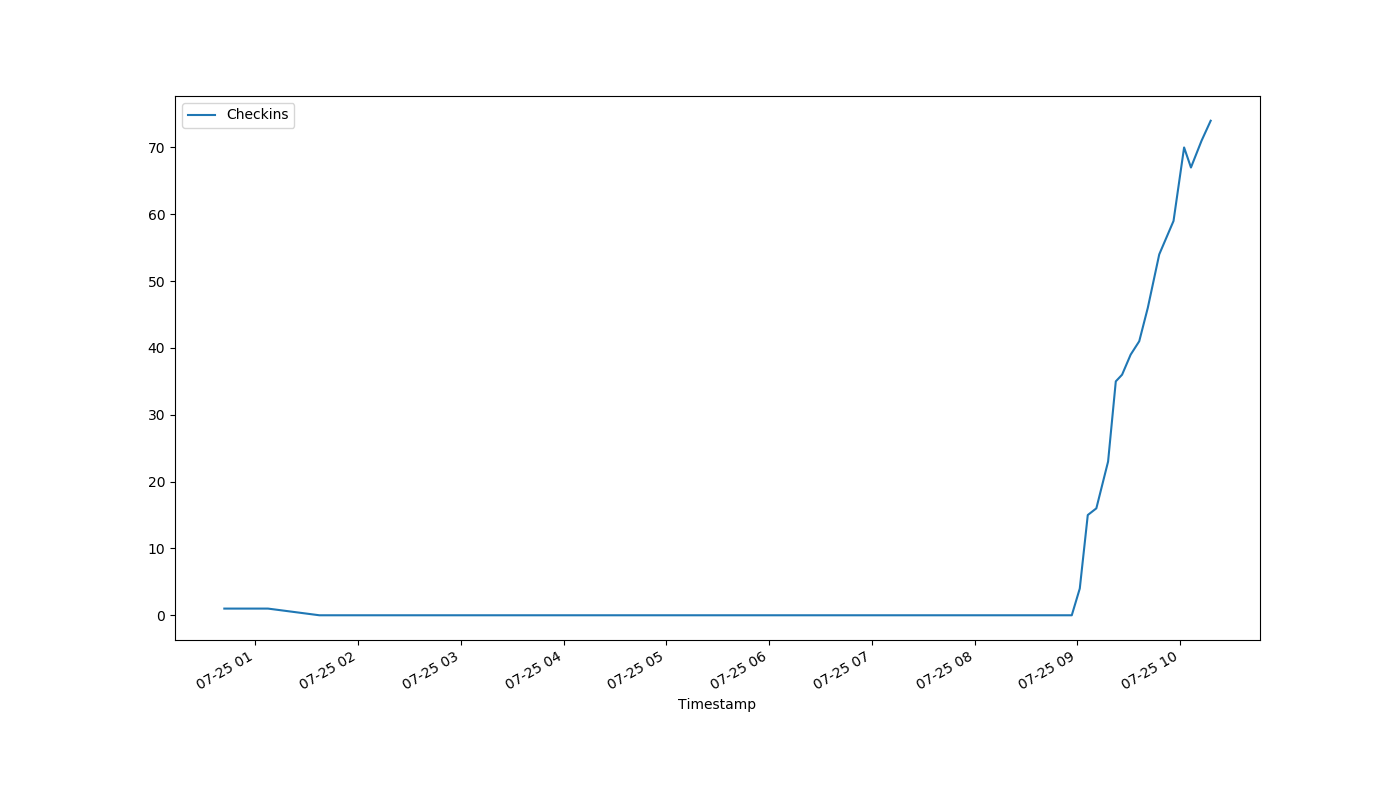
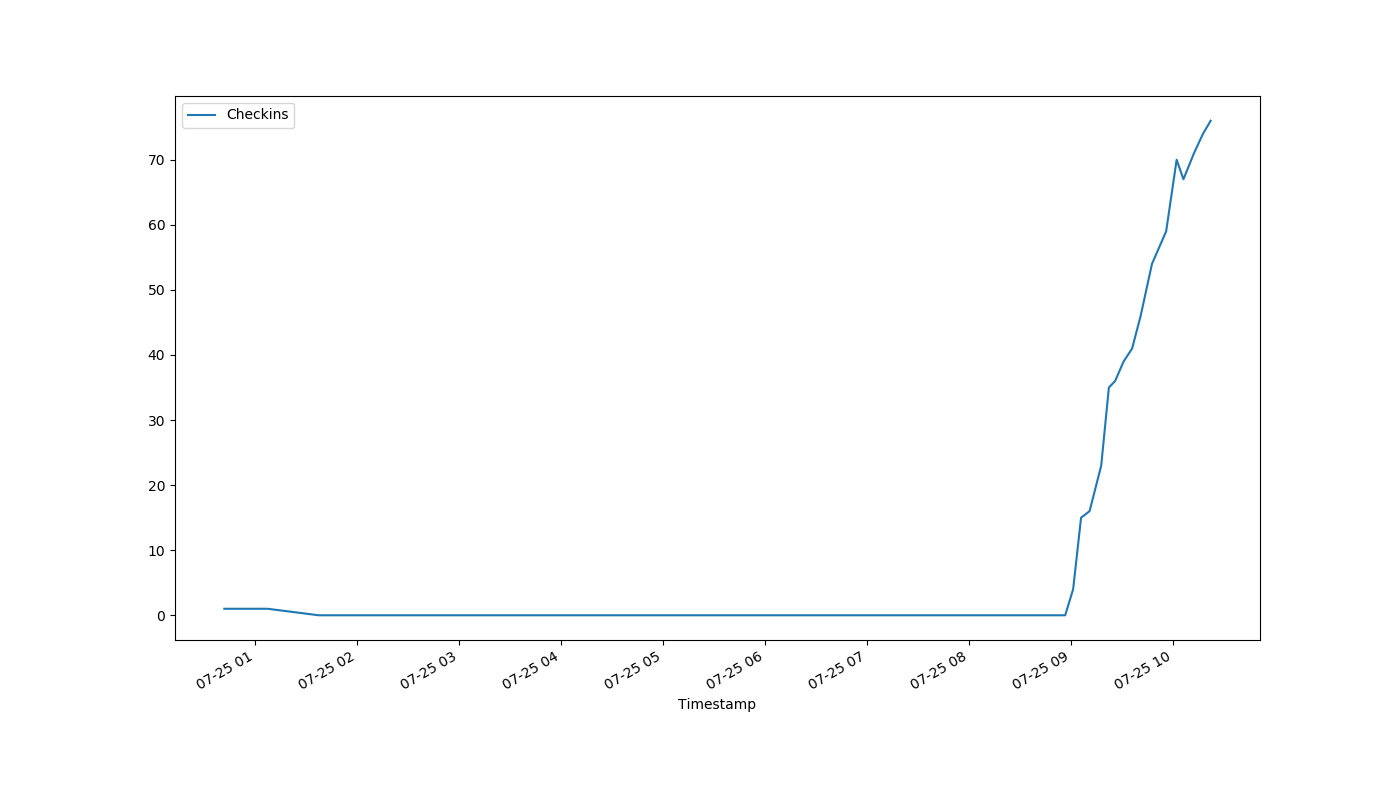
auto-Jul-25-10:24:58

diff --git a/index.html b/index.html
@@ -1,1 +1,1 @@
-<!DOCTYPE html><html><head><meta http-equiv="refresh" content="30"><link rel='stylesheet' href='holmcurrent.css'></head><body><p id='count'>-1</p><div id='graph-wrap'><img id='graph' src='holmgraph-Jul-25.png'></div><p id='updated'>Last updated 10:22:15 / 10:21:05</p></body></html>
+<!DOCTYPE html><html><head><meta http-equiv="refresh" content="30"><link rel='stylesheet' href='holmcurrent.css'></head><body><p id='count'>76</p><div id='graph-wrap'><img id='graph' src='holmgraph-Jul-25.png'></div><p id='updated'>Last updated 10:23:15 / 10:22:15</p></body></html>
